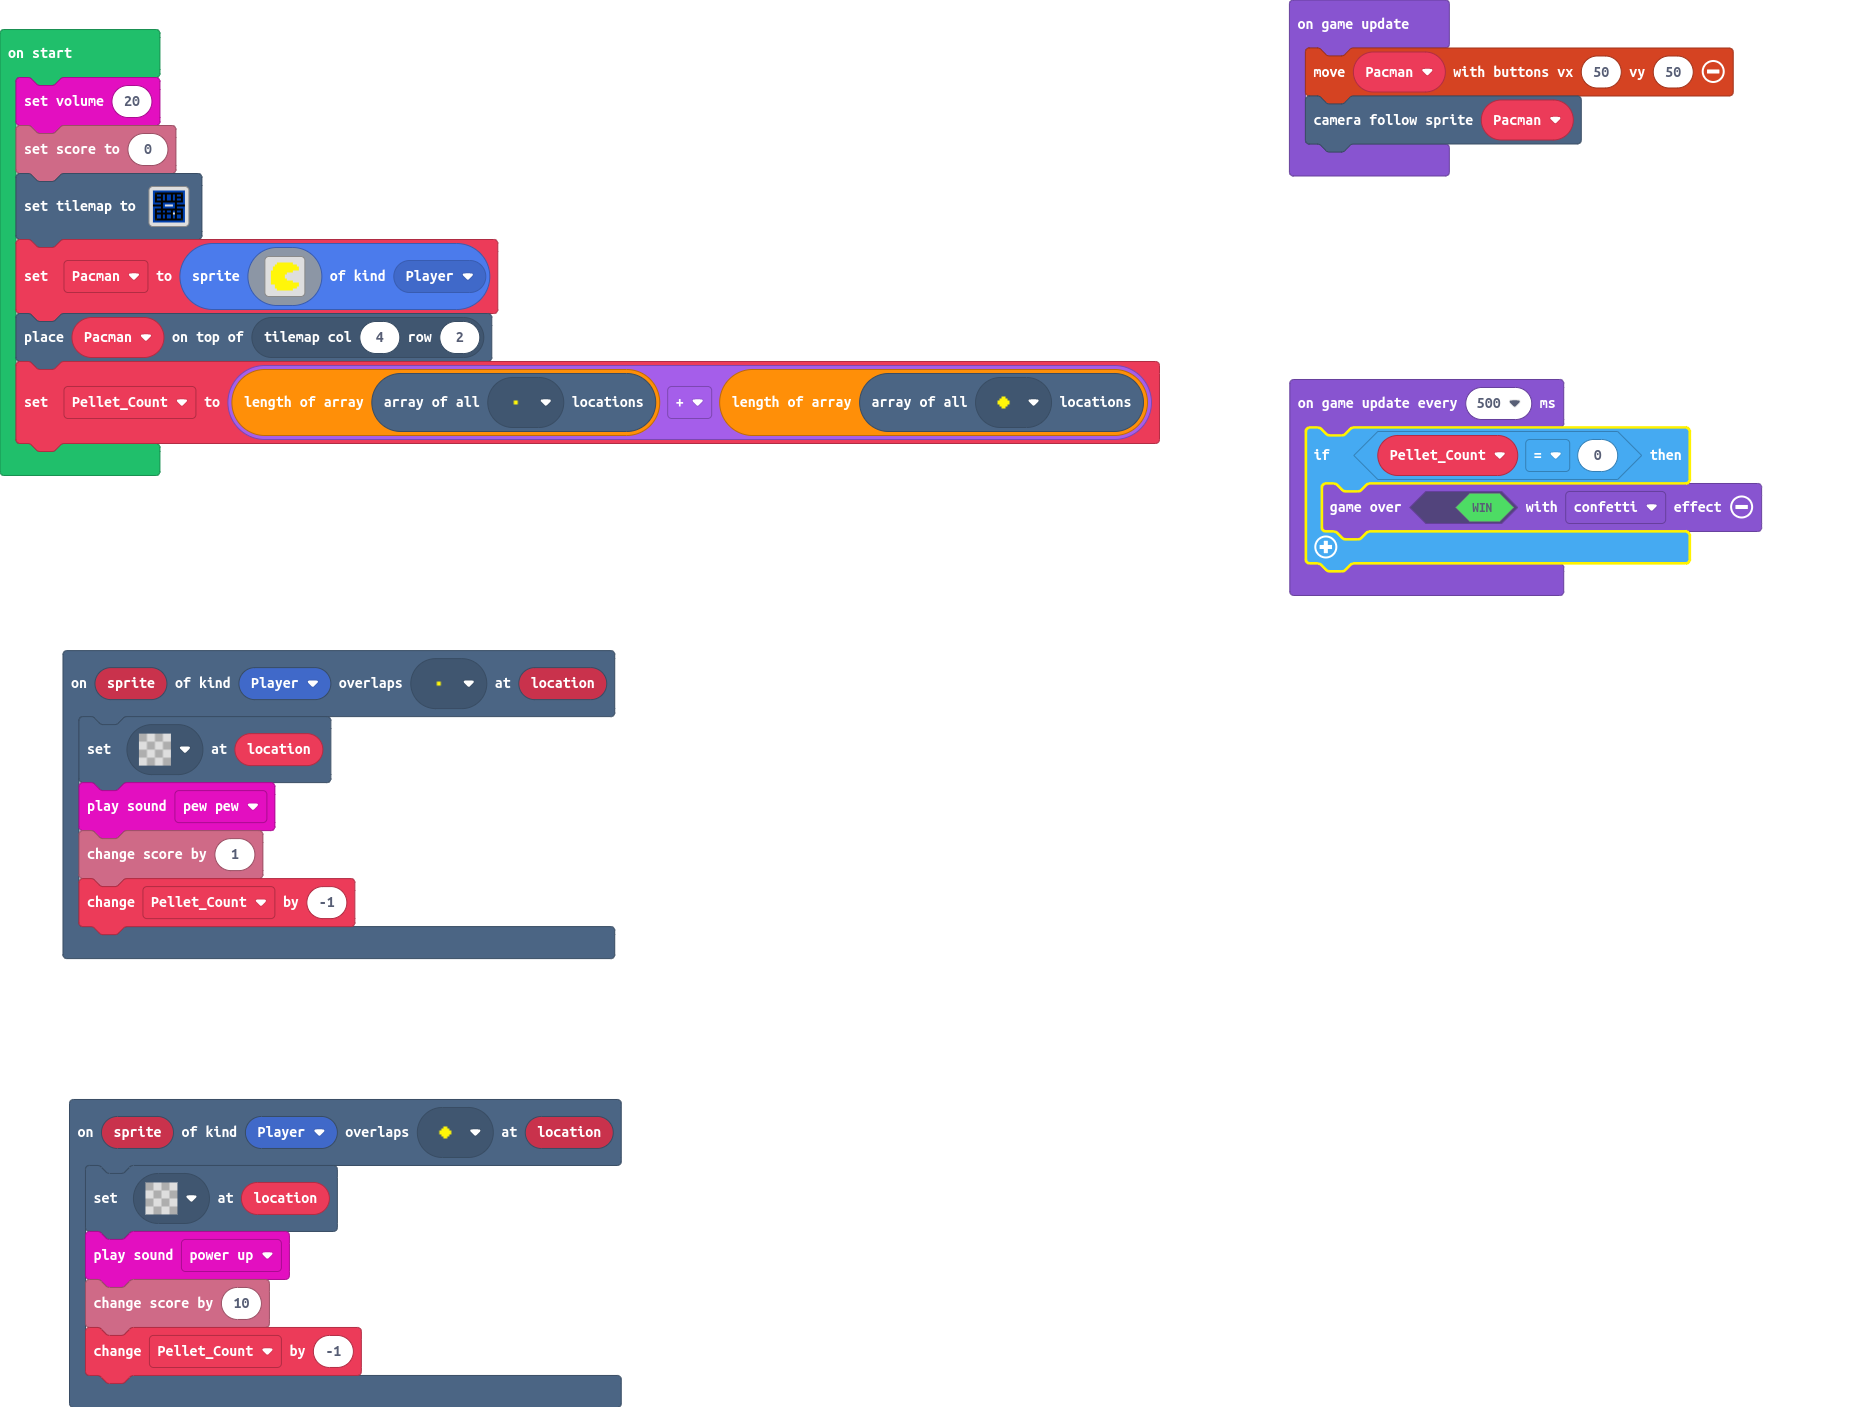
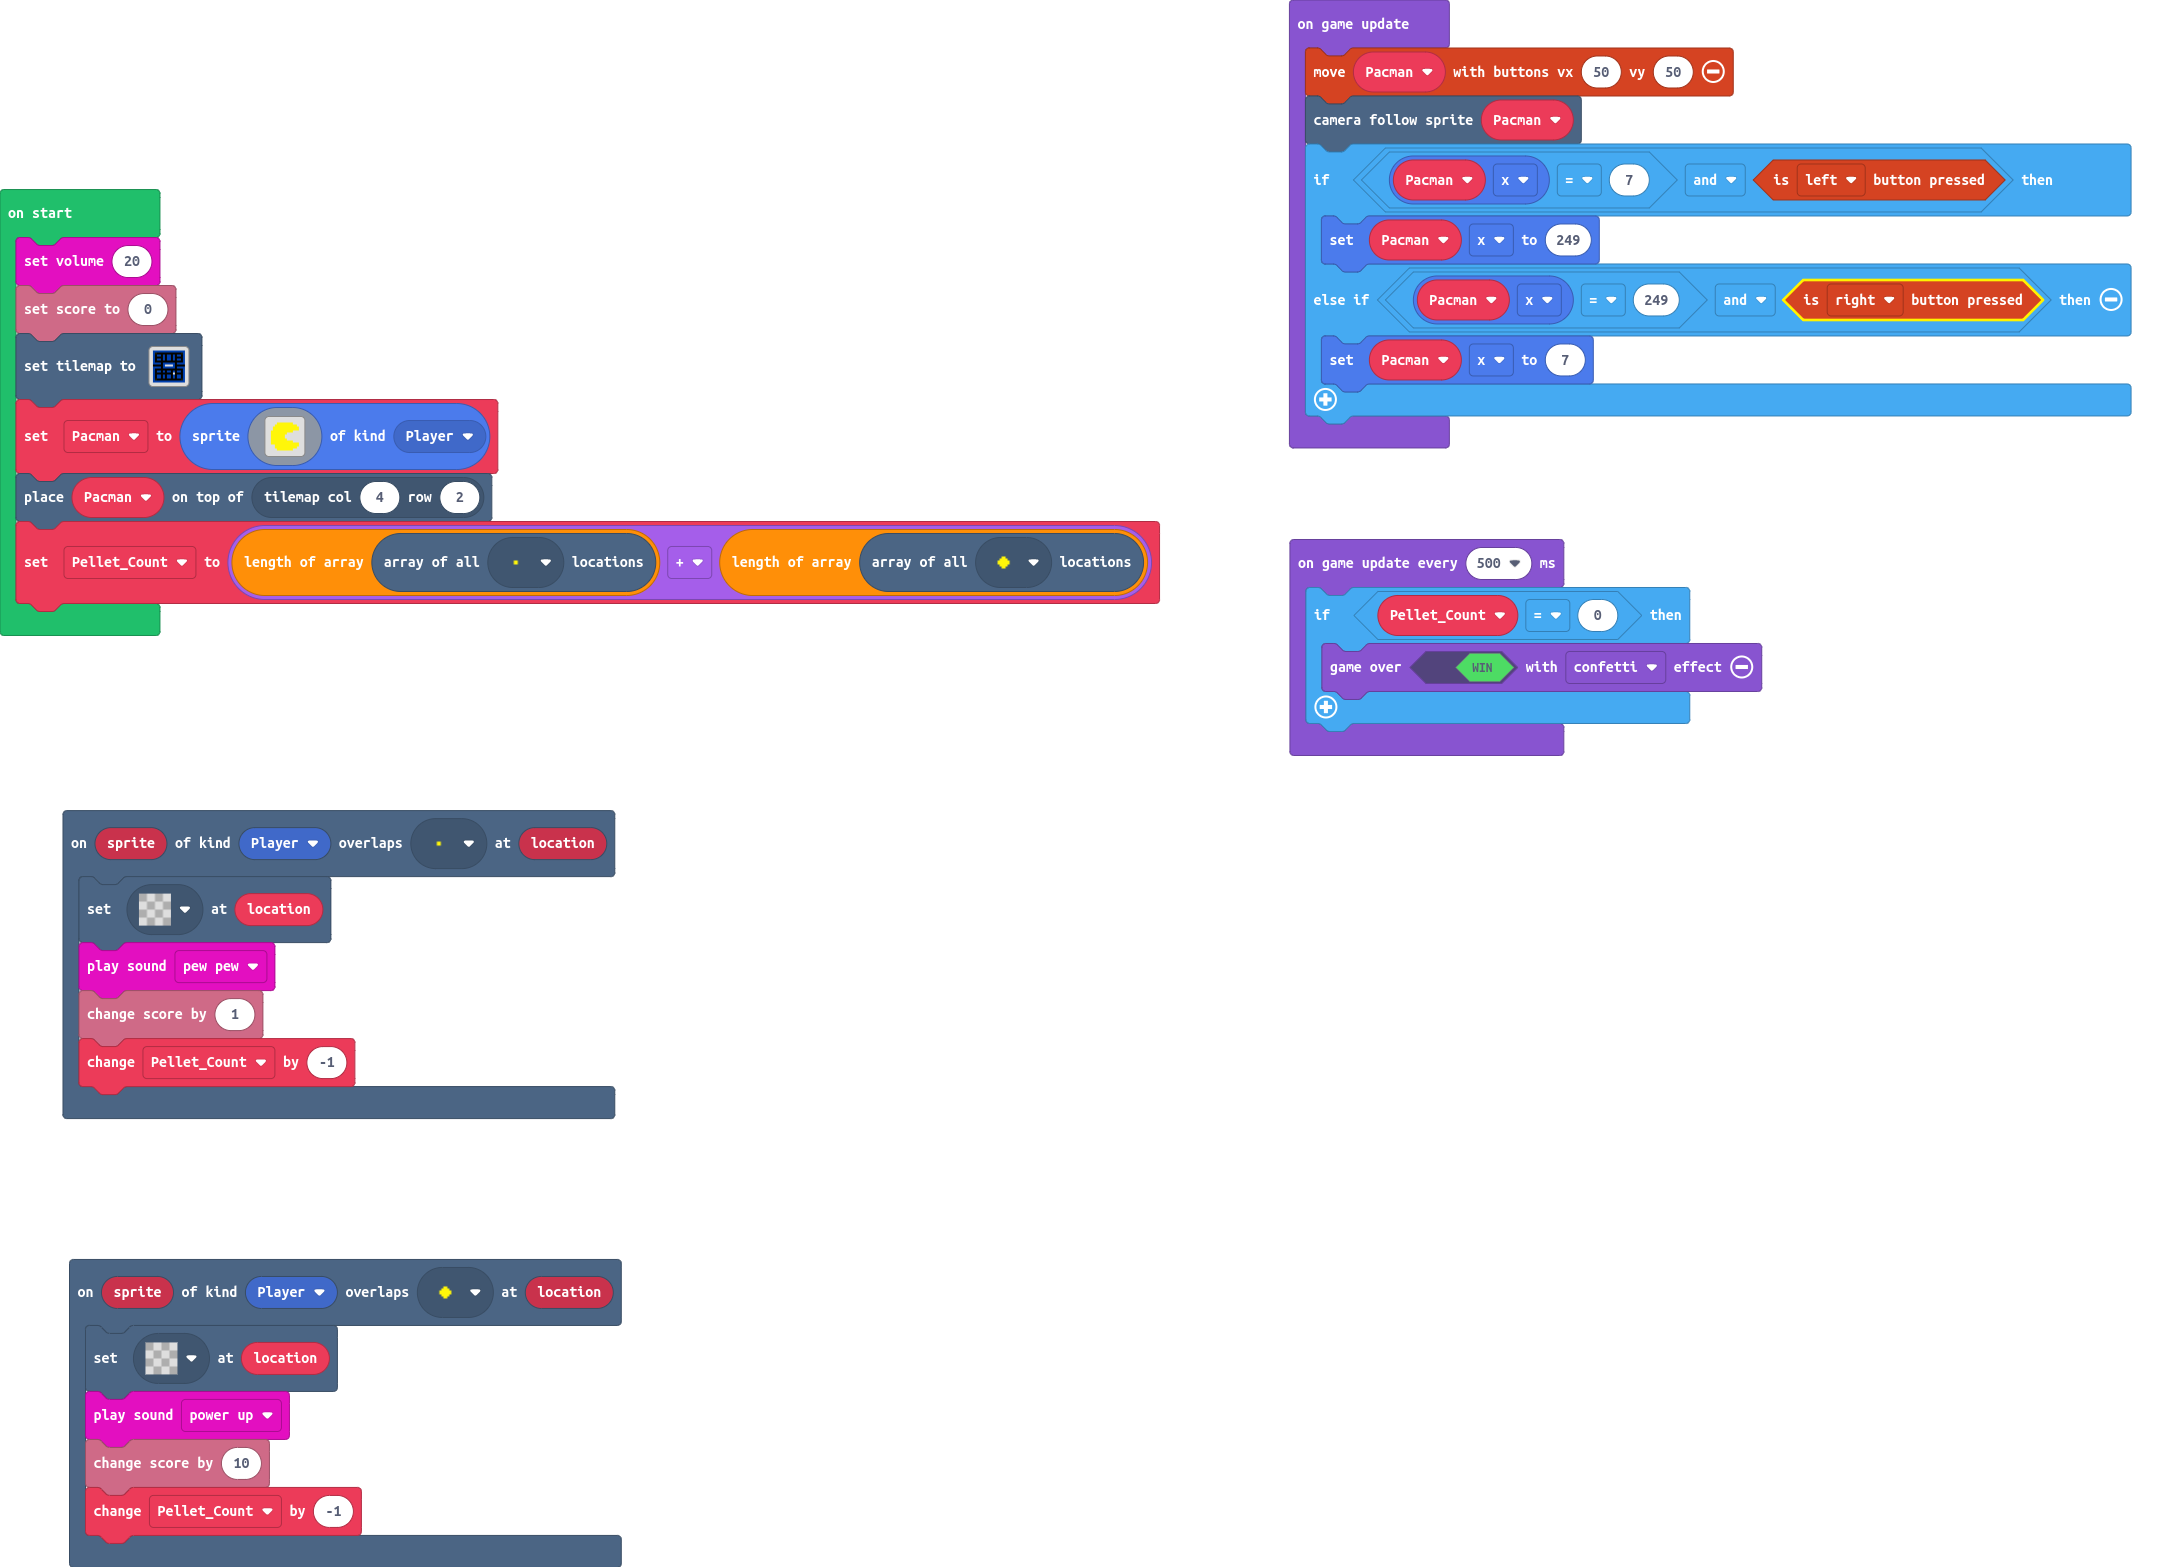
Pacman and moved through tunnel and appear on other side of the maze.

diff --git a/main.ts b/main.ts
@@ -136,6 +136,11 @@ let Pellet_Count = tiles.getTilesByType(myTiles.tile2).length + tiles.getTilesBy
 game.onUpdate(function () {
     controller.moveSprite(Pacman, 50, 50)
     scene.cameraFollowSprite(Pacman)
+    if (Pacman.x == 7 && controller.left.isPressed()) {
+        Pacman.x = 249
+    } else if (Pacman.x == 249 && controller.right.isPressed()) {
+        Pacman.x = 7
+    }
 })
 game.onUpdateInterval(500, function () {
     if (Pellet_Count == 0) {
